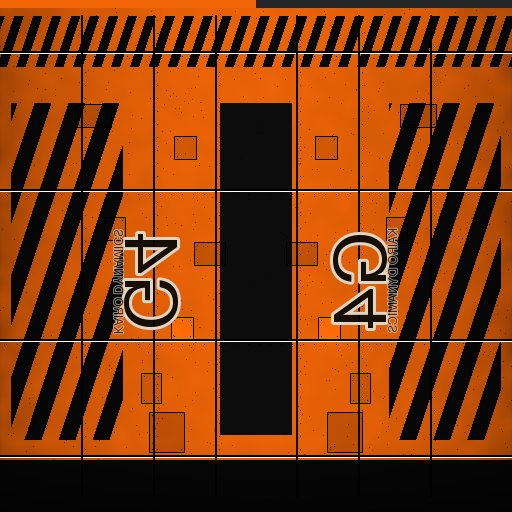
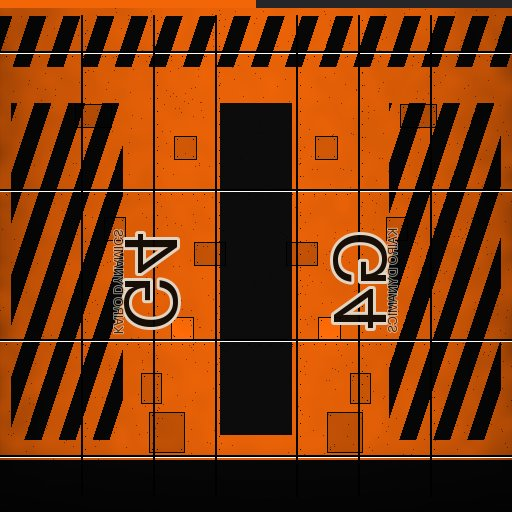
art(garage): round-6 — the sweep is exact over the ring's real ±27.4°, HALO's ring flattens to fit, gills rooted on SIDEWINDER's waist
From Astra's check of round 5, verified in code:

- HALO's ring can roll ±27.4°, not ±22°: game.ts sets
  lateralLoad = steer × 0.45 − slip, with steer and slip each clamped to
  ±1, so ±1.45 × 12 plus the drift's 10. The validator's MOTION table uses
  that bound and pins the game.ts line and the slip clamp.
- The swept-pose check is now exact rather than nine samples. Each
  rotated coordinate is R·cos(t + ψ), so its range is the endpoints or ±R
  wherever the turn passes a crest.
- HALO's ring swept 2.29 m of height, more than the whole envelope. Its
  ring and light arcs flatten (squash 0.5 → 0.42), keeping width, rake and
  centre; the full roll now spans y −0.806..1.326.
- SIDEWINDER's side gills are rooted in the deck just inboard of the
  chine, wherever the narrowed waist puts it, instead of floating off it.
- BULWARK's HAZARD nose band tightens to period 5, like factory.
- NOIR is sold as SATIN BLACK: the finish has been matte since round 5.
- Evidence: v5-swept-poses at the full ±27.4° roll; v4-paint-schemes
  rebuilt.

Claude-Session: https://claude.ai/code/session_015UQX5D2JaSx2pHQyTyK4qZ

Changed region(s): [[0.0, 0.0312, 1.0, 0.1562]]

diff --git a/src/game/garage-catalog.js b/src/game/garage-catalog.js
@@ -165,7 +165,7 @@ export function partCard(code) {
  */
 export const SCHEME_CARDS = [
   { code: "factory", label: "FACTORY", price: 0, note: "THE LIVERY IT LEFT THE WORKS IN" },
-  { code: "noir", label: "NOIR", price: 600, note: "GLOSS BLACK · SIGNAL COLOURS KEPT" },
+  { code: "noir", label: "NOIR", price: 600, note: "SATIN BLACK · SIGNAL COLOURS KEPT" },
   { code: "arctic", label: "ARCTIC", price: 600, note: "PEARL WHITE · SIGNAL COLOURS KEPT" },
   { code: "strike", label: "STRIKE", price: 900, note: "RED OVER WHITE · INTERCEPTOR SPLIT" },
   { code: "neon", label: "NEON", price: 900, note: "GRAPHITE · CYAN SKIRTS · PINK SPINE" },

diff --git a/art/blender/build_garage_frames.py b/art/blender/build_garage_frames.py
@@ -262,6 +262,18 @@ def hull(builder, stations, textured=True, offset_x=0.0):
                  cap_role='FRAME_trim', belly_edges=(0, 7))
 
 
+def flank(stations, z, inset):
+    """The hull at z: chine half-width, chine height, and the deck's height `inset` inboard of the chine."""
+    for a, b in zip(stations, stations[1:]):
+        if a['z'] <= z <= b['z']:
+            t = (z - a['z']) / (b['z'] - a['z'])
+            st = {k: a[k] + (b[k] - a[k]) * t for k in ('w', 'top', 'mid', 'roof', 'drop')}
+            shoulder = st['top'] - (st['top'] - st['mid']) * st['drop']
+            run = st['w'] * (1 - st['roof'])
+            return st['w'], st['mid'], st['mid'] + (shoulder - st['mid']) * min(inset / run, 1)
+    raise ValueError(f'z {z} is off the hull')
+
+
 def canopy(builder, stations):
     rings = []
     for z, w, base, top in stations:
@@ -472,7 +484,7 @@ SIGNATURES = {
                dict(kind='side', u0=0.15, u1=0.17, colour=(0.05, 0.75, 0.85))])),
     'bulwark': ('hazard', lambda f: dict(
         f, base=(0.95, 0.4, 0.03), accent=(0.02, 0.02, 0.022), number=INK,
-        rules=[dict(kind='hazard', u0=0.0, u1=0.5, v0=0.03, v1=0.13, period=9, colour=INK),
+        rules=[dict(kind='hazard', u0=0.0, u1=0.5, v0=0.03, v1=0.13, period=5, colour=INK),
                dict(kind='hazard', u0=0.02, u1=0.24, v0=0.2, v1=0.86, period=5, colour=INK),
                dict(kind='spine', at=[0.5], width=0.14, v0=0.2, v1=0.85, colour=(0.05, 0.05, 0.05)),
                dict(kind='band', v0=0.9, v1=1, colour=INK)])),
@@ -796,9 +808,14 @@ def build_sidewinder(root, mats, frame):
         # Front outrigger canards on an exposed strut.
         body.plate([(s * 0.9, 0.06, -2.95), (s * 1.78, 0.02, -2.75), (s * 1.78, 0.02, -2.25), (s * 1.0, 0.06, -2.1)], 0.06, 'FRAME_paint')
         body.tube([(s * 0.9, 0.12, -2.5), (s * 1.74, 0.06, -2.5)], 0.05, 'FRAME_metal')
-        # Canted side gills.
+        # Canted side gills, rooted in the deck just inboard of the chine and
+        # raised outward over it, so they follow the waist wherever it runs.
         for z in (-0.35, -0.05, 0.25):
-            body.plate([(s * 1.1, 0.44, z), (s * 1.4, 0.3, z), (s * 1.4, 0.3, z + 0.14), (s * 1.1, 0.44, z + 0.14)], 0.03, 'FRAME_trim')
+            gill = []
+            for zz in (z, z + 0.14):
+                w, mid, deck = flank(frame['stations'], zz, 0.26)
+                gill.append([(s * (w - 0.26), deck - 0.01, zz), (s * (w + 0.02), mid + 0.14, zz)])
+            body.plate([gill[0][0], gill[0][1], gill[1][1], gill[1][0]], 0.03, 'FRAME_trim')
         # The wing stands on two swept pylons.
         body.fin([(1.45, 0.5), (1.85, 0.5), (2.25, 1.0), (1.95, 1.0)], s * 0.62, 0.06, 'FRAME_metal')
     aerofoil(body, [(-1.38, 1.02, 2.2, 0.45), (0.0, 0.98, 1.95, 0.62), (1.38, 1.02, 2.2, 0.45)], 'FRAME_accent')
@@ -919,10 +936,10 @@ def build_halo(root, mats, frame):
     ring = empty('stabiliser_ring_pivot', (0, 0.26, 2.05), root)
     halo = Builder('stabiliser_ring_body', (0, 0.26, 2.05))
     rake = math.radians(15)
-    halo.arc((0, 0.26, 2.05), 1.72, 0.14, 0.24, 0, math.tau, 'FRAME_accent', steps=24, squash=0.5, rake=rake)
+    halo.arc((0, 0.26, 2.05), 1.72, 0.14, 0.24, 0, math.tau, 'FRAME_accent', steps=24, squash=0.42, rake=rake)
     for n in range(6):
         a = math.tau * (n + 0.25) / 6
-        halo.arc((0, 0.26, 2.05 + 0.13), 1.72, 0.05, 0.03, a, a + math.radians(26), 'FRAME_lights', steps=3, squash=0.5, rake=rake)
+        halo.arc((0, 0.26, 2.05 + 0.13), 1.72, 0.05, 0.03, a, a + math.radians(26), 'FRAME_lights', steps=3, squash=0.42, rake=rake)
     halo.finish(mats, ring)
     movers(root, mats,
            steering=((1.28, 0.3, -2.4), [(-2.4, 0.3), (-1.7, 0.3), (-1.85, 0.72), (-2.2, 0.72)], 1.28),
